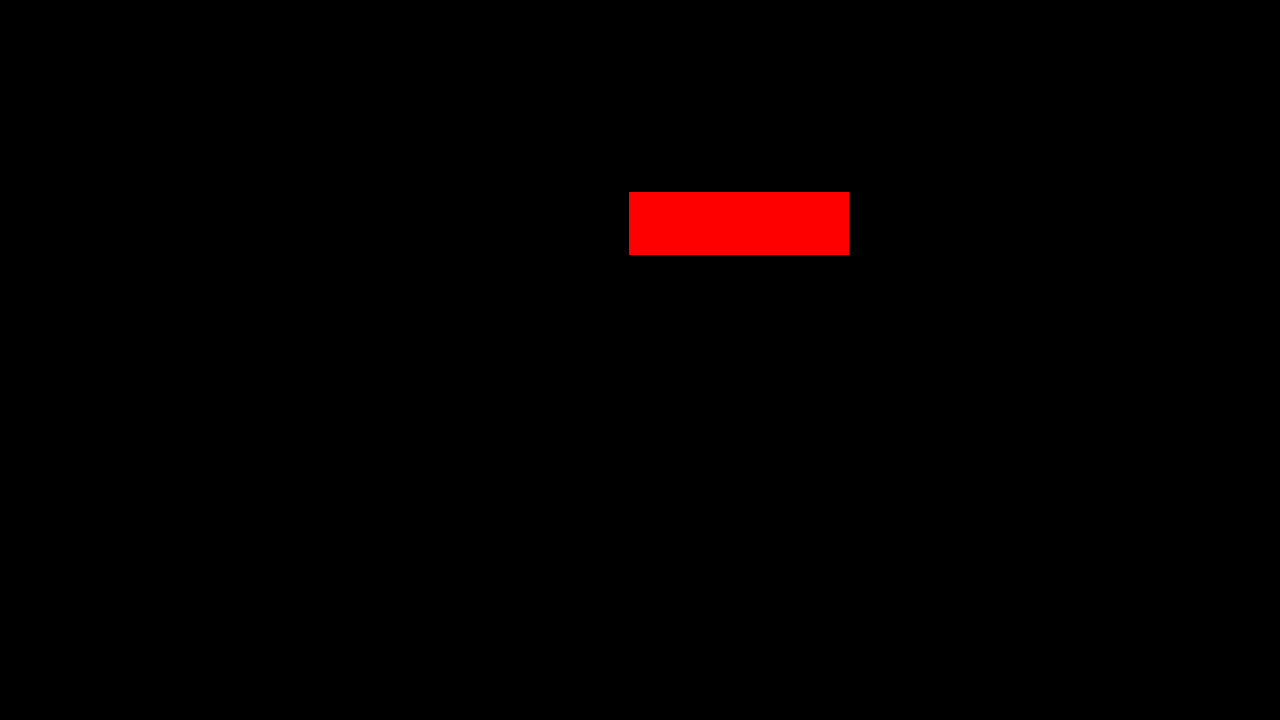
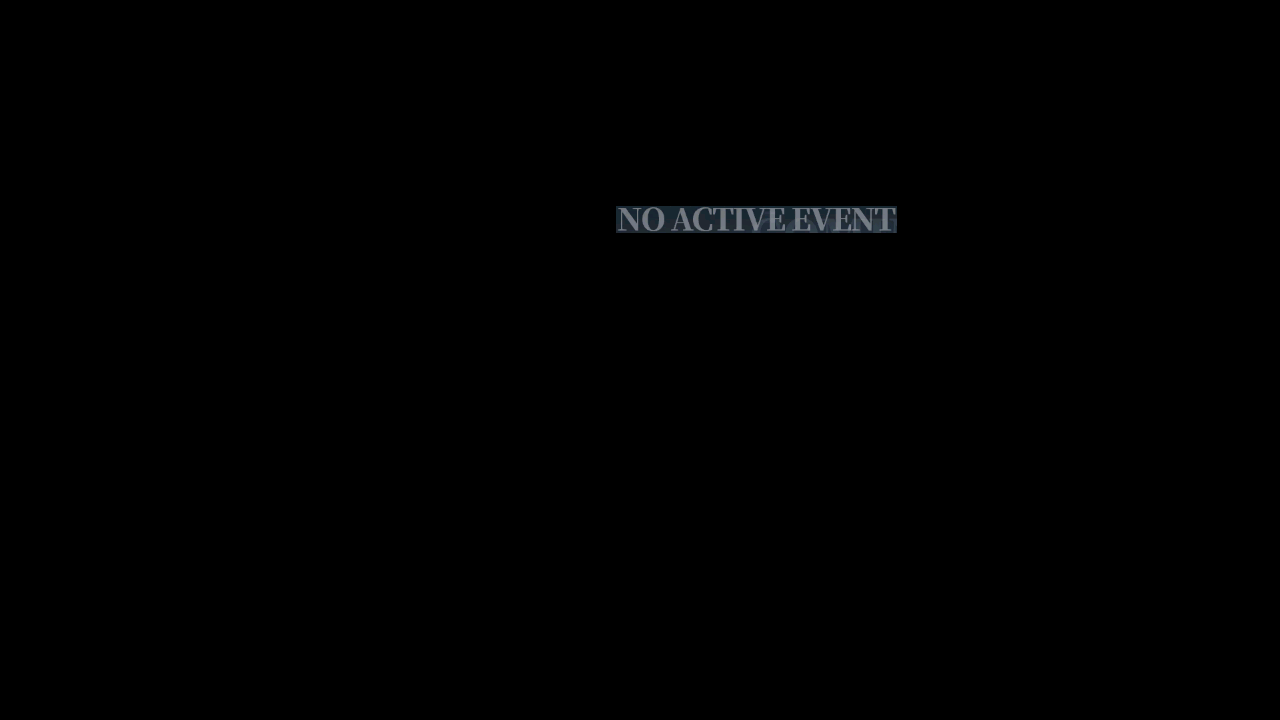
Add offsets when checking events;Replace all temp assets with EN version.

Changed region(s): [[0.4688, 0.2444, 0.7188, 0.3667]]

diff --git a/module/ui/assets.py b/module/ui/assets.py
@@ -21,7 +21,7 @@ CAMPAIGN_MENU_GOTO_EVENT = Button(area={'cn': (355, 439, 501, 506), 'en': (374, 
 CAMPAIGN_MENU_GOTO_EXERCISE = Button(area={'cn': (1011, 586, 1106, 638), 'en': (1010, 600, 1102, 624), 'jp': (970, 586, 1106, 638), 'tw': (1012, 584, 1107, 637)}, color={'cn': (45, 49, 51), 'en': (81, 83, 85), 'jp': (51, 53, 56), 'tw': (48, 52, 53)}, button={'cn': (1011, 586, 1106, 638), 'en': (1010, 600, 1102, 624), 'jp': (970, 586, 1106, 638), 'tw': (1012, 584, 1107, 637)}, file={'cn': './assets/cn/ui/CAMPAIGN_MENU_GOTO_EXERCISE.png', 'en': './assets/en/ui/CAMPAIGN_MENU_GOTO_EXERCISE.png', 'jp': './assets/jp/ui/CAMPAIGN_MENU_GOTO_EXERCISE.png', 'tw': './assets/tw/ui/CAMPAIGN_MENU_GOTO_EXERCISE.png'})
 CAMPAIGN_MENU_GOTO_OS = Button(area={'cn': (355, 439, 501, 506), 'en': (374, 449, 503, 483), 'jp': (383, 442, 508, 507), 'tw': (355, 436, 503, 507)}, color={'cn': (103, 106, 113), 'en': (112, 115, 124), 'jp': (68, 72, 82), 'tw': (101, 104, 112)}, button={'cn': (543, 345, 967, 552), 'en': (543, 345, 967, 552), 'jp': (543, 345, 967, 552), 'tw': (543, 345, 967, 552)}, file={'cn': './assets/cn/ui/CAMPAIGN_MENU_GOTO_OS.png', 'en': './assets/en/ui/CAMPAIGN_MENU_GOTO_OS.png', 'jp': './assets/jp/ui/CAMPAIGN_MENU_GOTO_OS.png', 'tw': './assets/tw/ui/CAMPAIGN_MENU_GOTO_OS.png'})
 CAMPAIGN_MENU_GOTO_WAR_ARCHIVES = Button(area={'cn': (210, 586, 310, 638), 'en': (222, 590, 308, 634), 'jp': (196, 591, 307, 632), 'tw': (211, 584, 311, 638)}, color={'cn': (62, 65, 66), 'en': (53, 55, 54), 'jp': (78, 80, 81), 'tw': (64, 67, 69)}, button={'cn': (210, 586, 310, 638), 'en': (222, 590, 308, 634), 'jp': (196, 591, 307, 632), 'tw': (211, 584, 311, 638)}, file={'cn': './assets/cn/ui/CAMPAIGN_MENU_GOTO_WAR_ARCHIVES.png', 'en': './assets/en/ui/CAMPAIGN_MENU_GOTO_WAR_ARCHIVES.png', 'jp': './assets/jp/ui/CAMPAIGN_MENU_GOTO_WAR_ARCHIVES.png', 'tw': './assets/tw/ui/CAMPAIGN_MENU_GOTO_WAR_ARCHIVES.png'})
-CAMPAIGN_MENU_NO_EVENT = Button(area={'cn': (629, 192, 849, 255), 'en': (629, 192, 849, 255), 'jp': (629, 192, 849, 255), 'tw': (629, 192, 849, 255)}, color={'cn': (255, 0, 0), 'en': (255, 0, 0), 'jp': (255, 0, 0), 'tw': (255, 0, 0)}, button={'cn': (629, 192, 849, 255), 'en': (629, 192, 849, 255), 'jp': (629, 192, 849, 255), 'tw': (629, 192, 849, 255)}, file={'cn': './assets/cn/ui/CAMPAIGN_MENU_NO_EVENT.png', 'en': './assets/cn/ui/CAMPAIGN_MENU_NO_EVENT.png', 'jp': './assets/jp/ui/CAMPAIGN_MENU_NO_EVENT.png', 'tw': './assets/cn/ui/CAMPAIGN_MENU_NO_EVENT.png'})
+CAMPAIGN_MENU_NO_EVENT = Button(area={'cn': (616, 206, 897, 233), 'en': (616, 206, 897, 233), 'jp': (616, 206, 897, 233), 'tw': (616, 206, 897, 233)}, color={'cn': (57, 67, 77), 'en': (57, 67, 77), 'jp': (57, 67, 77), 'tw': (57, 67, 77)}, button={'cn': (616, 206, 897, 233), 'en': (616, 206, 897, 233), 'jp': (616, 206, 897, 233), 'tw': (616, 206, 897, 233)}, file={'cn': './assets/cn/ui/CAMPAIGN_MENU_NO_EVENT.png', 'en': './assets/en/ui/CAMPAIGN_MENU_NO_EVENT.png', 'jp': './assets/jp/ui/CAMPAIGN_MENU_NO_EVENT.png', 'tw': './assets/cn/ui/CAMPAIGN_MENU_NO_EVENT.png'})
 COMMISSION_CHECK = Button(area={'cn': (122, 16, 175, 39), 'en': (120, 14, 301, 41), 'jp': (121, 14, 176, 39), 'tw': (121, 14, 176, 41)}, color={'cn': (157, 173, 210), 'en': (98, 112, 150), 'jp': (159, 175, 211), 'tw': (141, 155, 193)}, button={'cn': (122, 16, 175, 39), 'en': (120, 14, 301, 41), 'jp': (121, 14, 176, 39), 'tw': (121, 14, 176, 41)}, file={'cn': './assets/cn/ui/COMMISSION_CHECK.png', 'en': './assets/en/ui/COMMISSION_CHECK.png', 'jp': './assets/jp/ui/COMMISSION_CHECK.png', 'tw': './assets/tw/ui/COMMISSION_CHECK.png'})
 DAILY_CHECK = Button(area={'cn': (23, 656, 67, 698), 'en': (23, 656, 67, 698), 'jp': (23, 656, 67, 698), 'tw': (23, 656, 67, 698)}, color={'cn': (84, 139, 210), 'en': (84, 139, 210), 'jp': (84, 139, 210), 'tw': (84, 139, 210)}, button={'cn': (23, 656, 67, 698), 'en': (23, 656, 67, 698), 'jp': (23, 656, 67, 698), 'tw': (23, 656, 67, 698)}, file={'cn': './assets/cn/ui/DAILY_CHECK.png', 'en': './assets/en/ui/DAILY_CHECK.png', 'jp': './assets/jp/ui/DAILY_CHECK.png', 'tw': './assets/tw/ui/DAILY_CHECK.png'})
 DORMMENU_CHECK = Button(area={'cn': (248, 270, 363, 359), 'en': (225, 265, 401, 350), 'jp': (203, 248, 409, 450), 'tw': (248, 270, 363, 359)}, color={'cn': (194, 187, 184), 'en': (169, 168, 173), 'jp': (144, 155, 168), 'tw': (194, 187, 184)}, button={'cn': (248, 270, 363, 359), 'en': (225, 265, 401, 350), 'jp': (203, 248, 409, 450), 'tw': (248, 270, 363, 359)}, file={'cn': './assets/cn/ui/DORMMENU_CHECK.png', 'en': './assets/en/ui/DORMMENU_CHECK.png', 'jp': './assets/jp/ui/DORMMENU_CHECK.png', 'tw': './assets/tw/ui/DORMMENU_CHECK.png'})

diff --git a/module/ui/ui.py b/module/ui/ui.py
@@ -332,9 +332,9 @@ class UI(InfoHandler):
             logger.info('Already at page_event')
             return True
         else:
-            self.ui_goto(destination=page_campaign_menu)
+            self.ui_ensure(page_campaign_menu)
             # Check event availability
-            if self.appear(CAMPAIGN_MENU_NO_EVENT):
+            if self.appear(CAMPAIGN_MENU_NO_EVENT, offset=(20, 20)):
                 logger.info('Event unavailable, disable task')
                 self.config.Scheduler_Enable = False
                 self.config.task_stop()
